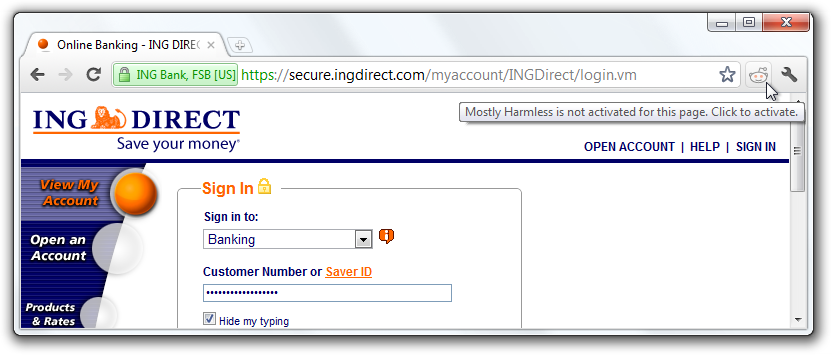
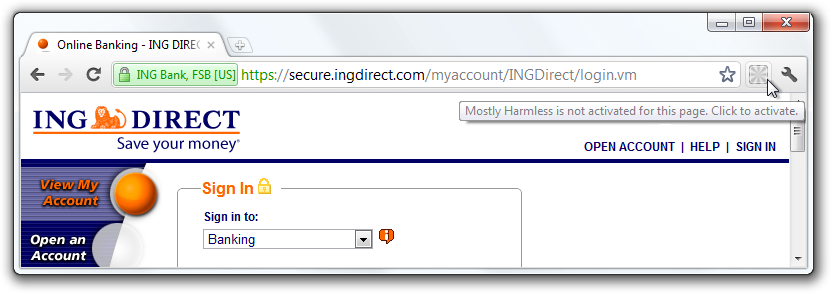
removed snoo from ss_excludedDomains.png

diff --git a/index.html b/index.html
@@ -28,7 +28,7 @@
 				<img src="./images/ss_notification.png" alt="Screenshot of Mostly Harmless sending a desktop notification for an orangered." width="812" height="128" />
 				<h2>Privacy</h2>
 				<p>Your browsing habits are your own, and you probably don&rsquo;t want every page you visit checked on reddit. Instead, Mostly Harmless has an option to only look up pages when you click its icon. Of course that could get tedious, so Mostly Harmless also supports excluding lookups based on domain and regular expression matches.</p>
-				<img src="./images/ss_excludedDomains.png" alt="Screenshot of a bank website being excluded from Mostly Harmless." width="832" height="355" />
+				<img src="./images/ss_excludedDomains.png" alt="Screenshot of a bank website being excluded from Mostly Harmless." width="832" height="294" />
 			</div>
 			<div class="article" id="download">
 				<!-- Move this to #open-source upon release. -->
